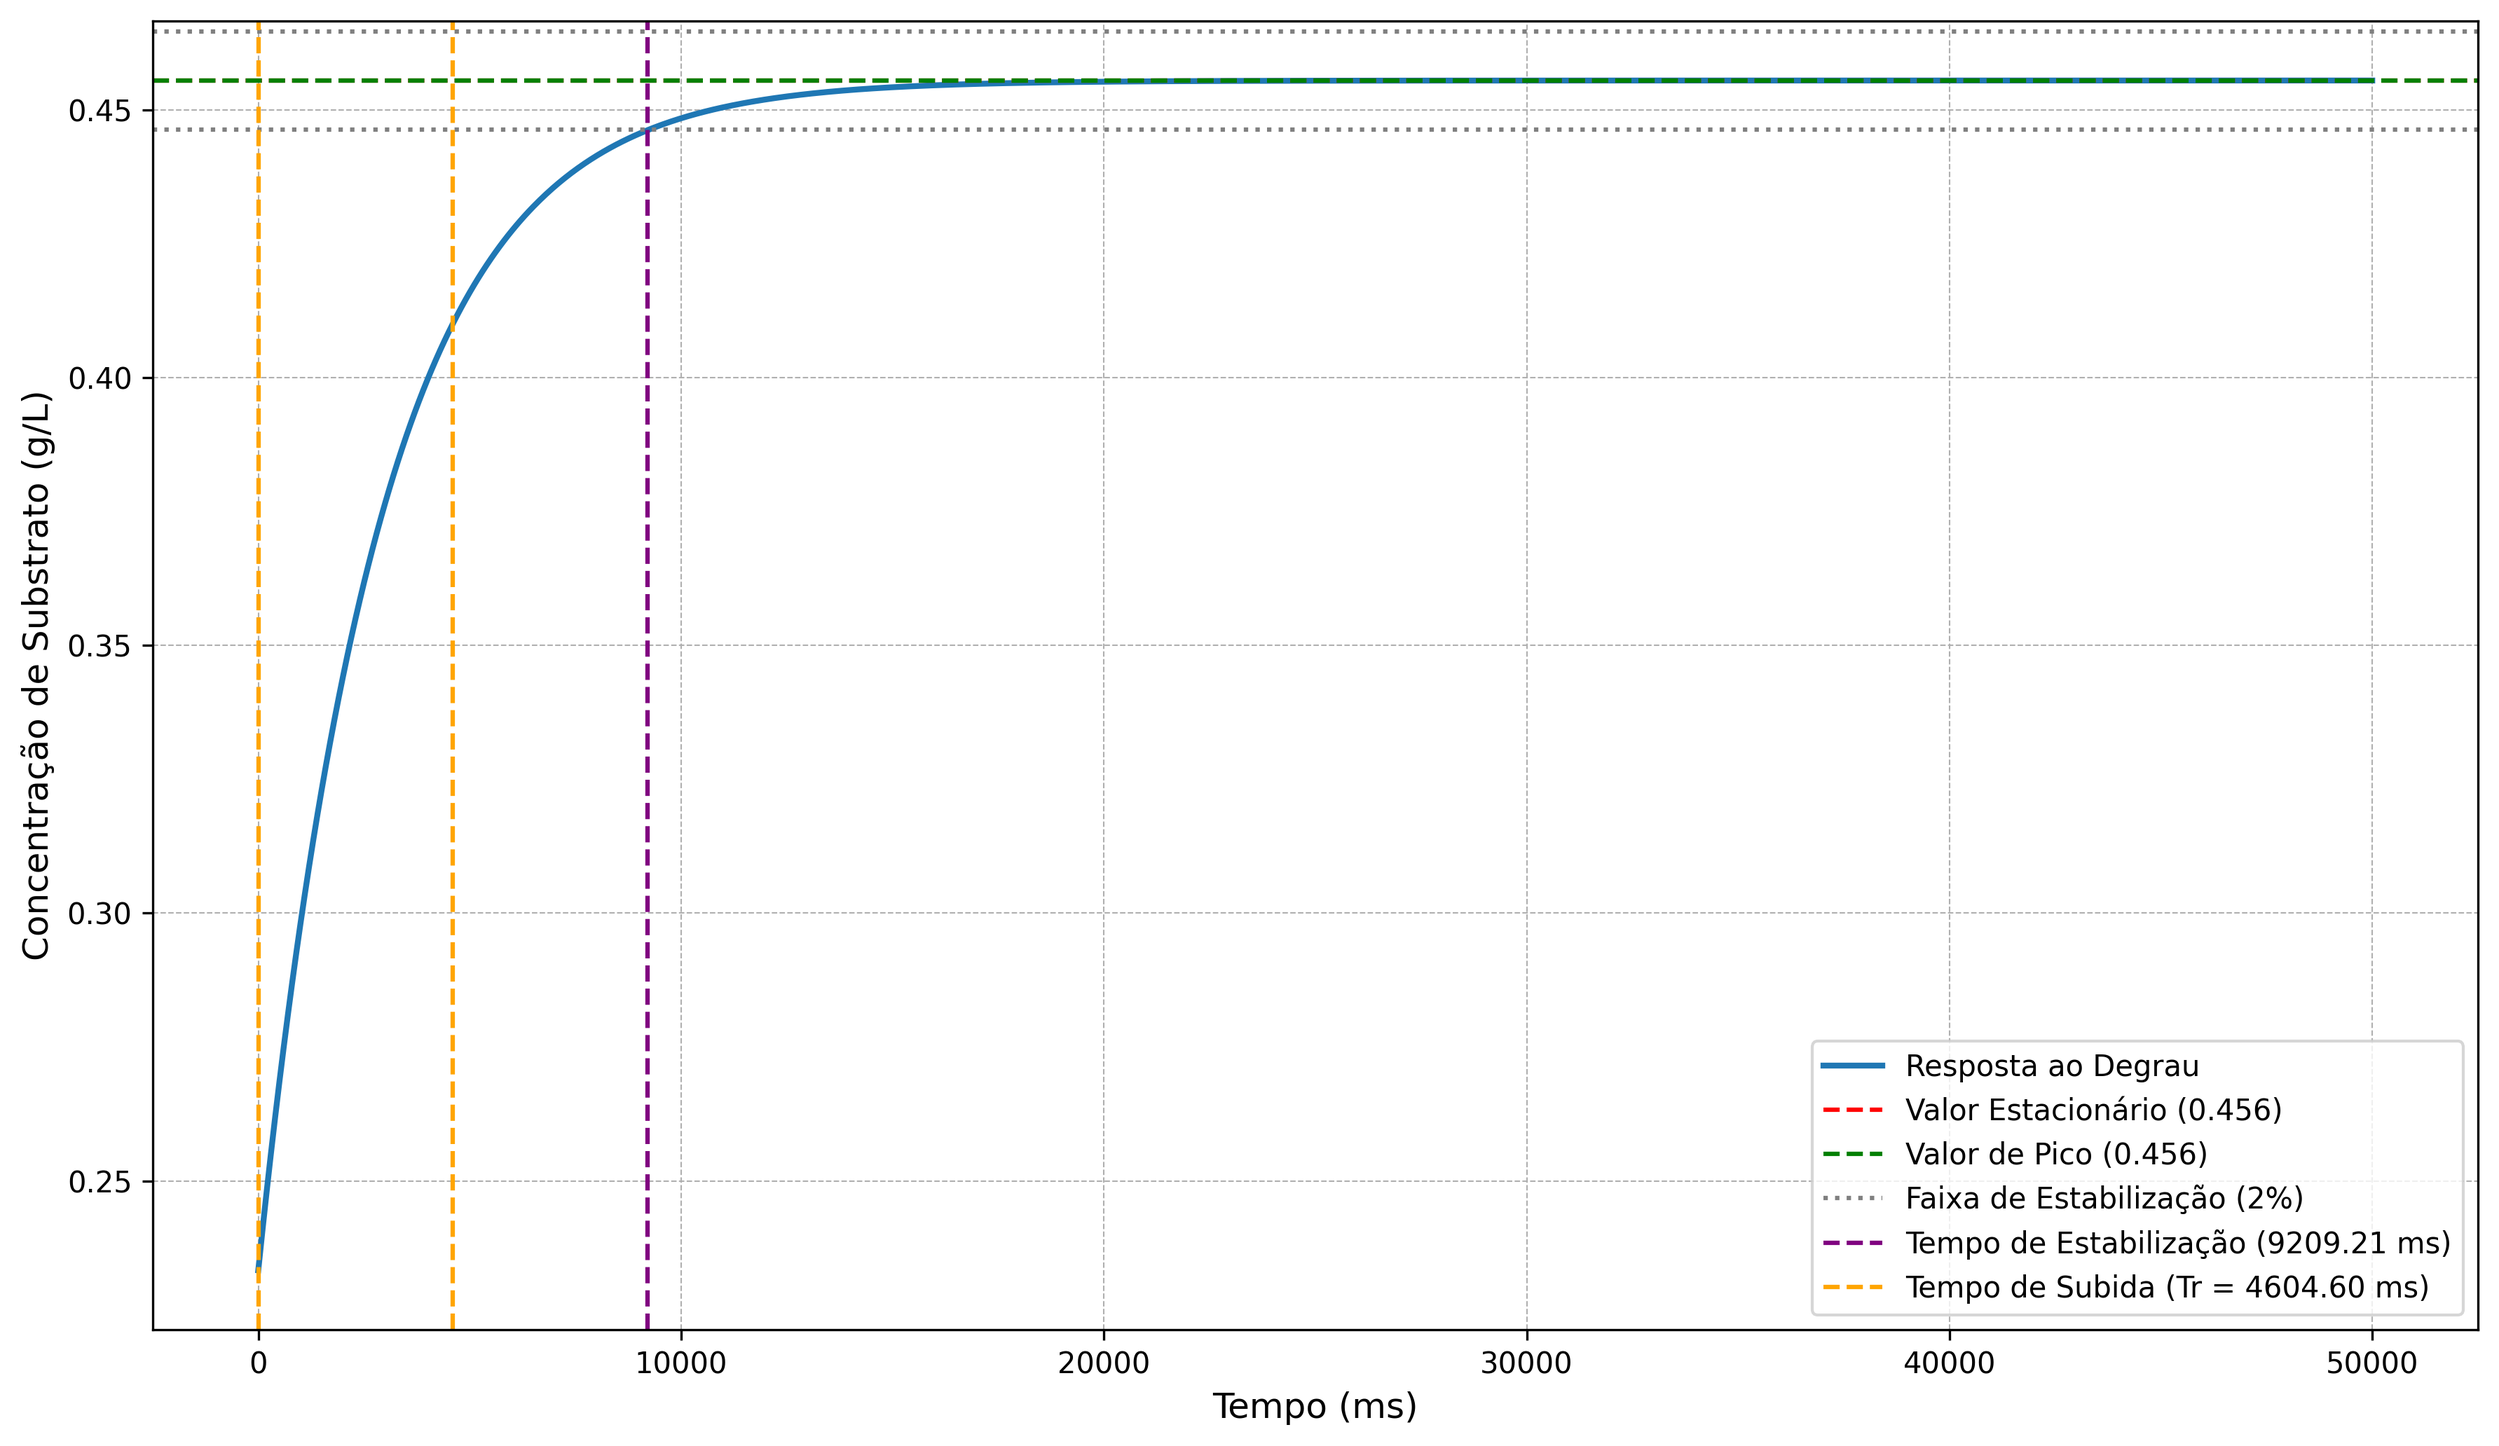
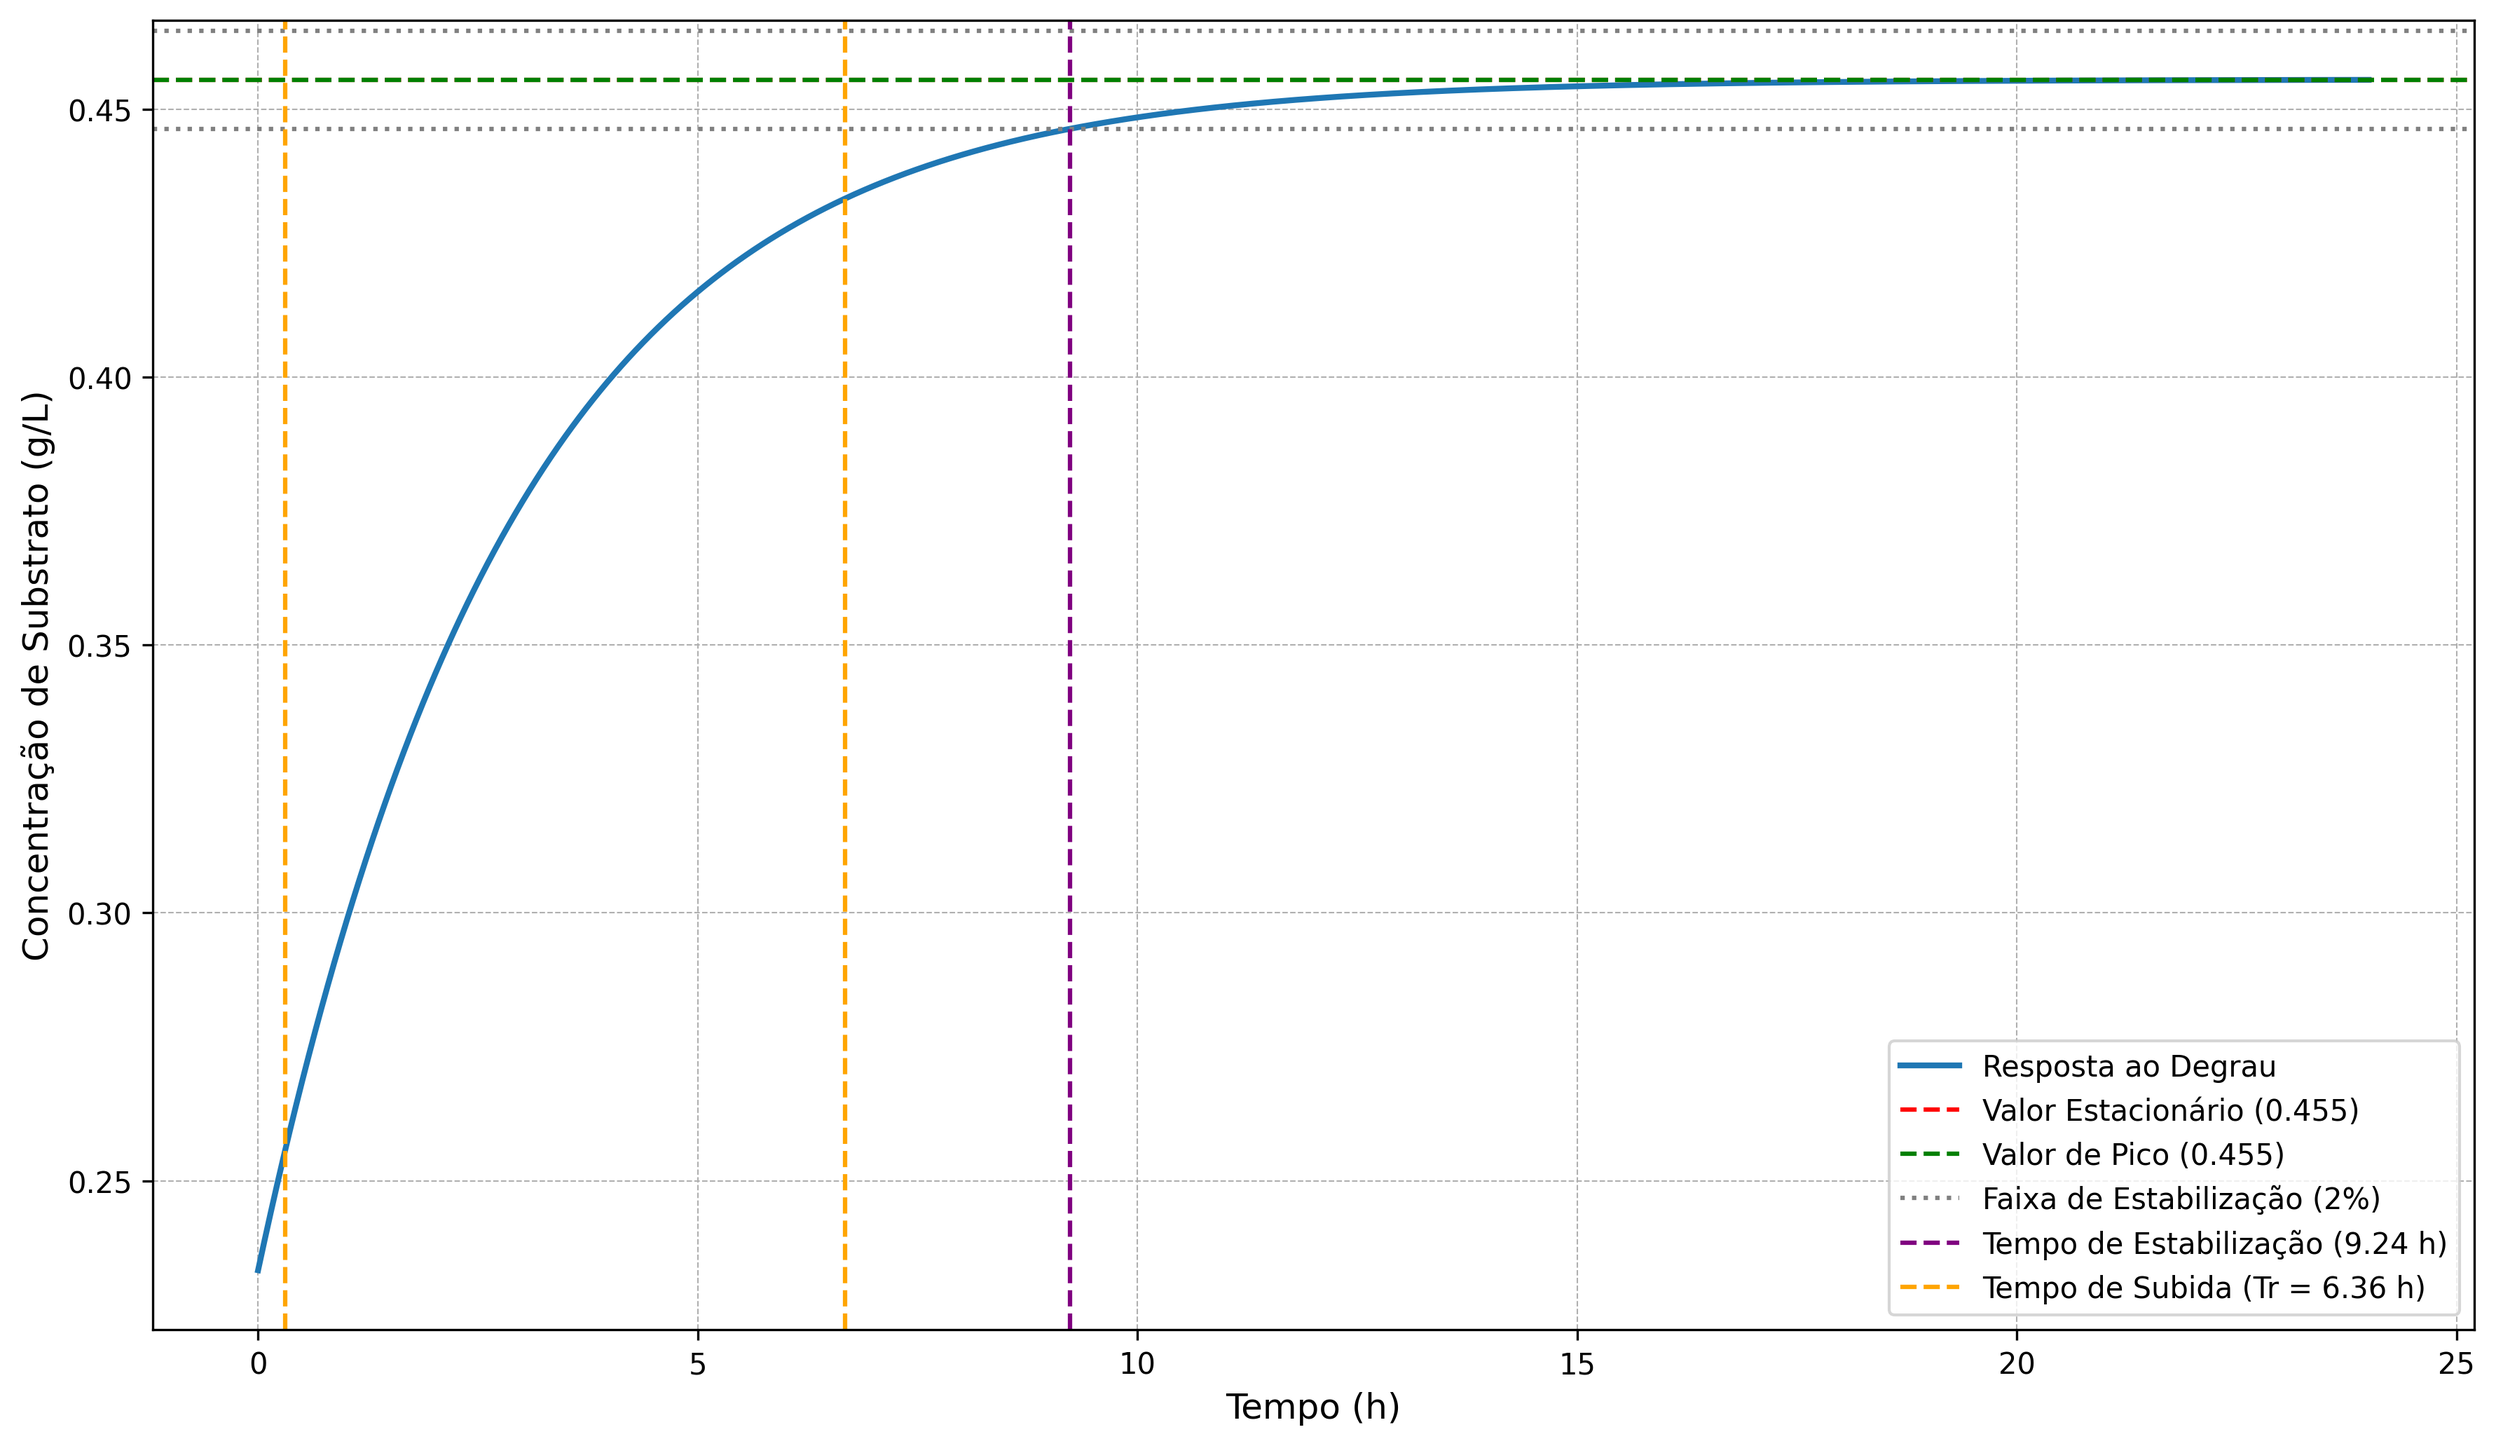
eixo x em horas, correção Tr

diff --git a/src/analiseResposta.py b/src/analiseResposta.py
@@ -10,7 +10,7 @@ from utils.saveFig import img_save
 # numerador = [K, -K * 180e3]
 # denominador = [1, 3125, 2.25e8]
 
-def gerar_entrada(tipo="degrau", A=1.0, t_final=50, n=1000, t_troca=20):
+def gerar_entrada(tipo="degrau", A=1.0, t_final=24, n=3000, t_troca=20): 
     t = np.linspace(0, t_final, n)
 
     if tipo == "degrau":
@@ -26,6 +26,10 @@ def gerar_entrada(tipo="degrau", A=1.0, t_final=50, n=1000, t_troca=20):
         raise ValueError(f"Tipo de entrada inválido: {tipo}")
 
     return t, u
+
+def is_monotonic(y):
+    dy = np.diff(y)
+    return np.all(dy >= 0) or np.all(dy <= 0)
 
 def params(G: TransferFunction, label, t, u):
 
@@ -57,14 +61,31 @@ def params(G: TransferFunction, label, t, u):
         overshoot_percent = 0
 
     # 3. Tempo de subida (Tr) - tempo para ir de 10% a 90% do valor final
-    try:
-        idx_10_percent = np.where(y >= 0.1 * c_final)[0][0]
-        idx_90_percent = np.where(y >= 0.9 * c_final)[0][0]
-        t_10 = t[idx_10_percent]
-        t_90 = t[idx_90_percent]
-        t_rise = t_90 - t_10
-    except IndexError:
-        t_rise = "Não foi possível calcular"
+    if is_monotonic(y):
+        try:
+            # isso vai dar errado porque não começo porque 0.1*c_final < c_inicial, logo Tr é 0 falsamente
+            # idx_10_percent = np.where(y >= 0.1 * c_final)[0][0]
+            # idx_90_percent = np.where(y >= 0.9 * c_final)[0][0]
+
+            y0 = y[0]
+            yf = y[-1]
+            delta = yf - y0
+
+            y_10 = y0 + 0.1 * delta
+            y_90 = y0 + 0.9 * delta
+
+            idx_10_percent = np.where(y >= y_10)[0][0]
+            idx_90_percent = np.where(y >= y_90)[0][0]
+
+            t_10 = t[idx_10_percent]
+            t_90 = t[idx_90_percent]
+            t_rise = t_90 - t_10
+        except IndexError:
+            t_rise = "Não foi possível calcular"
+            t_10 = None
+            t_90 = None
+    else:
+        t_rise = None
         t_10 = None
         t_90 = None
 
@@ -87,12 +108,12 @@ def params(G: TransferFunction, label, t, u):
     print(f"Valor de Pico (c_max): {c_max}")
     print(f"Percentual de Overshoot (%OS): {overshoot_percent}")
     if isinstance(t_rise, float):
-        print(f"Tempo de Subida (10%-90%) em segundos: {t_rise}")
+        print(f"Tempo de Subida (10%-90%): {t_rise} h")
     else:
         print(f"Tempo de Subida (10%-90%): {t_rise}")
 
     if isinstance(t_settling, float):
-        print(f"Tempo de Estabilização (critério 2%) em segundos: {t_settling}")
+        print(f"Tempo de Estabilização (critério 2%): {t_settling} h")
     else:
         print(f"Tempo de Estabilização (critério 2%): {t_settling}")
     print("-" * 50)
@@ -100,7 +121,8 @@ def params(G: TransferFunction, label, t, u):
 
     # --- Geração do Gráfico ---
     plt.figure(figsize=(12, 7))
-    plt.plot(t * 1000, y, label='Resposta ao Degrau', linewidth=2) # Eixo x em ms
+    # t_plot = t * 60  # horas -> minutos
+    plt.plot(t, y, label='Resposta ao Degrau', linewidth=2) # Eixo x em min
 
     # Linhas de referência e anotações
     plt.axhline(c_final, color='red', linestyle='--', label=f'Valor Estacionário ({c_final:.3f})')
@@ -110,19 +132,20 @@ def params(G: TransferFunction, label, t, u):
 
     # Anotações para tempo de estabilização
     if isinstance(t_settling, float):
-        plt.axvline(t_settling * 1000, color='purple', linestyle='--', label=f'Tempo de Estabilização ({t_settling*1000:.2f} ms)')
+        plt.axvline(t_settling  , color='purple', linestyle='--', label=f'Tempo de Estabilização ({t_settling :.2f} h)')
 
     # Anotações para tempo de subida (MODIFICADO FINAL)
-    if t_10 is not None and t_90 is not None:
+    # if t_10 is not None and t_90 is not None:
+    if t_rise is not None:
         # Adiciona o label a uma das linhas para aparecer na legenda
-        label_tr = f'Tempo de Subida (Tr = {t_rise*1000:.2f} ms)'
-        plt.axvline(t_10 * 1000, color='orange', linestyle='--', label=label_tr)
-        plt.axvline(t_90 * 1000, color='orange', linestyle='--')
+        label_tr = f'Tempo de Subida (Tr = {t_rise :.2f} h)'
+        plt.axvline(t_10  , color='orange', linestyle='--', label=label_tr)
+        plt.axvline(t_90  , color='orange', linestyle='--')
 
 
     # Configurações do gráfico
     # plt.title(r'Resposta com uma pequena pertubação', fontsize=16)
-    plt.xlabel('Tempo (ms)', fontsize=12)
+    plt.xlabel('Tempo (h)', fontsize=12)
     if label.startswith("G_X"):
         plt.ylabel('Concentração de Biomassa (g/L)', fontsize=12)
     elif label.startswith("G_S"):
@@ -146,7 +169,7 @@ numerador = G_X_D["num"]
 denominador = G_X_D["den"]
 G = TransferFunction(numerador, denominador)
 
-t, u = gerar_entrada(tipo="degrau_pos_neg", A=0.1 * 0.35, t_troca=20)
+t, u = gerar_entrada(tipo="degrau_pos_neg", A=0.1 * 0.35, t_troca=8)
 params(TransferFunction(G_X_D["num"], G_X_D["den"]), label="G_X_D", t=t, u=u)
 
 t, u = gerar_entrada(tipo="degrau", A=0.1 * 0.35)
